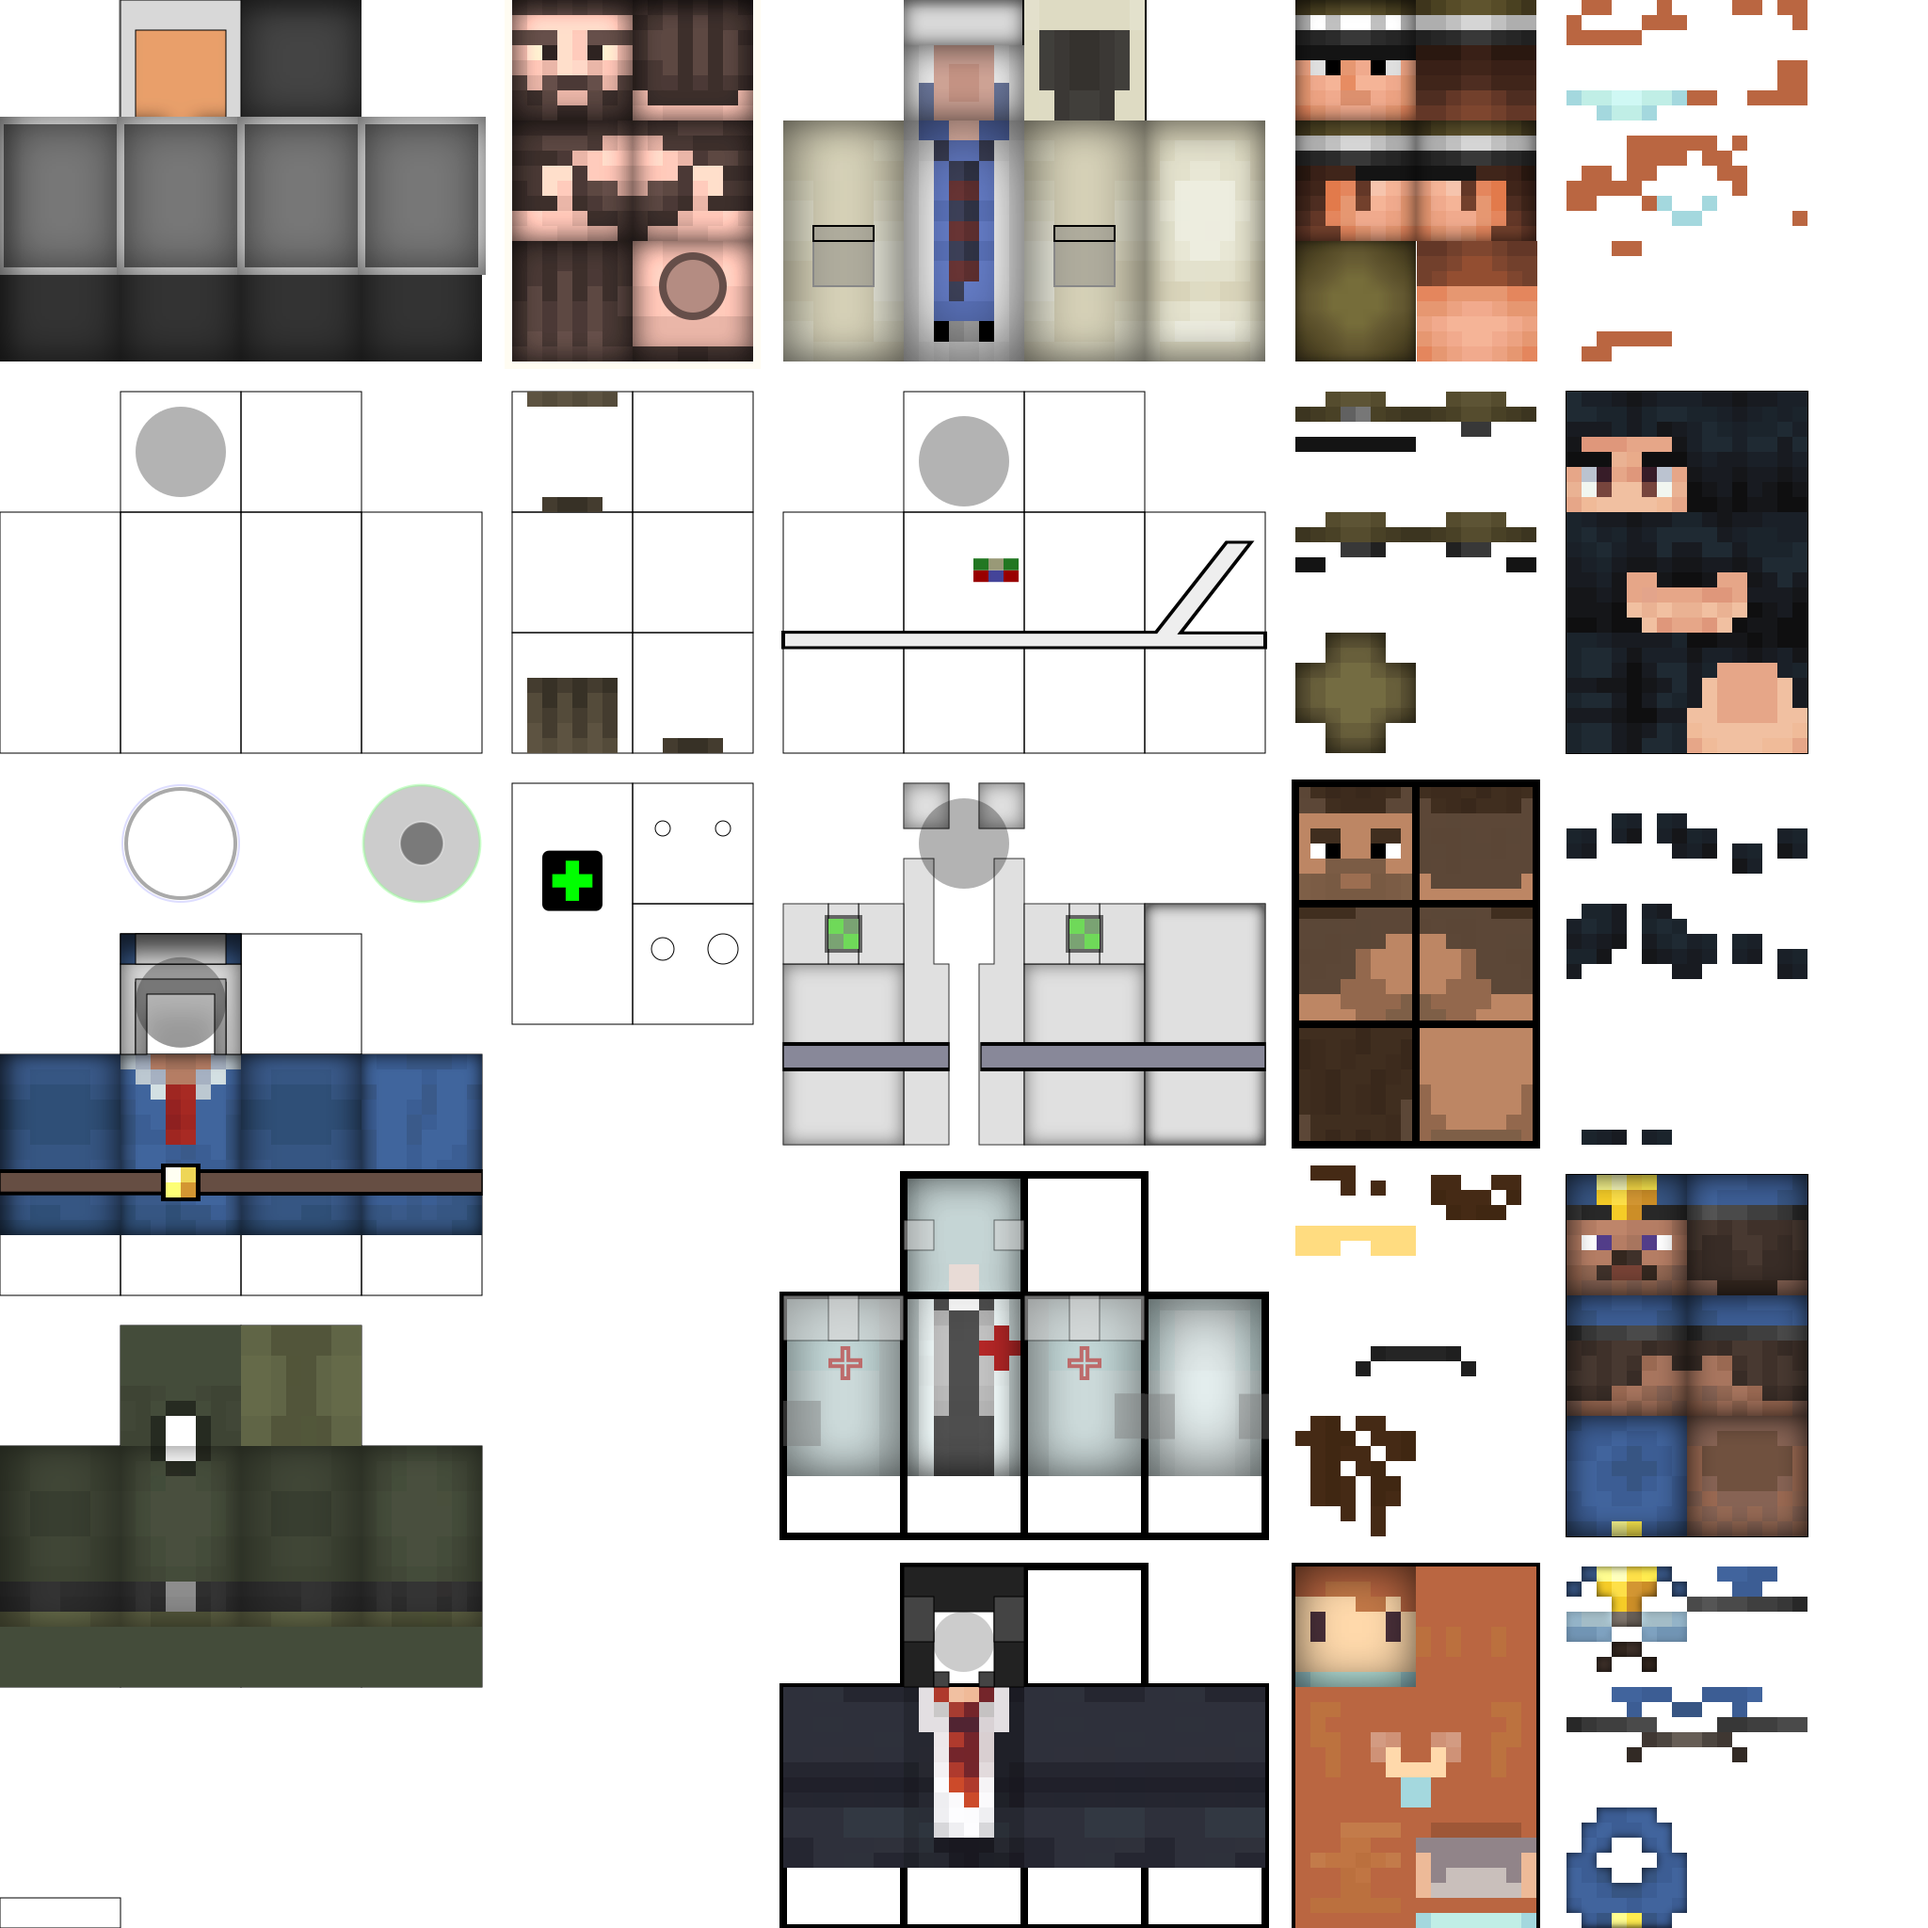
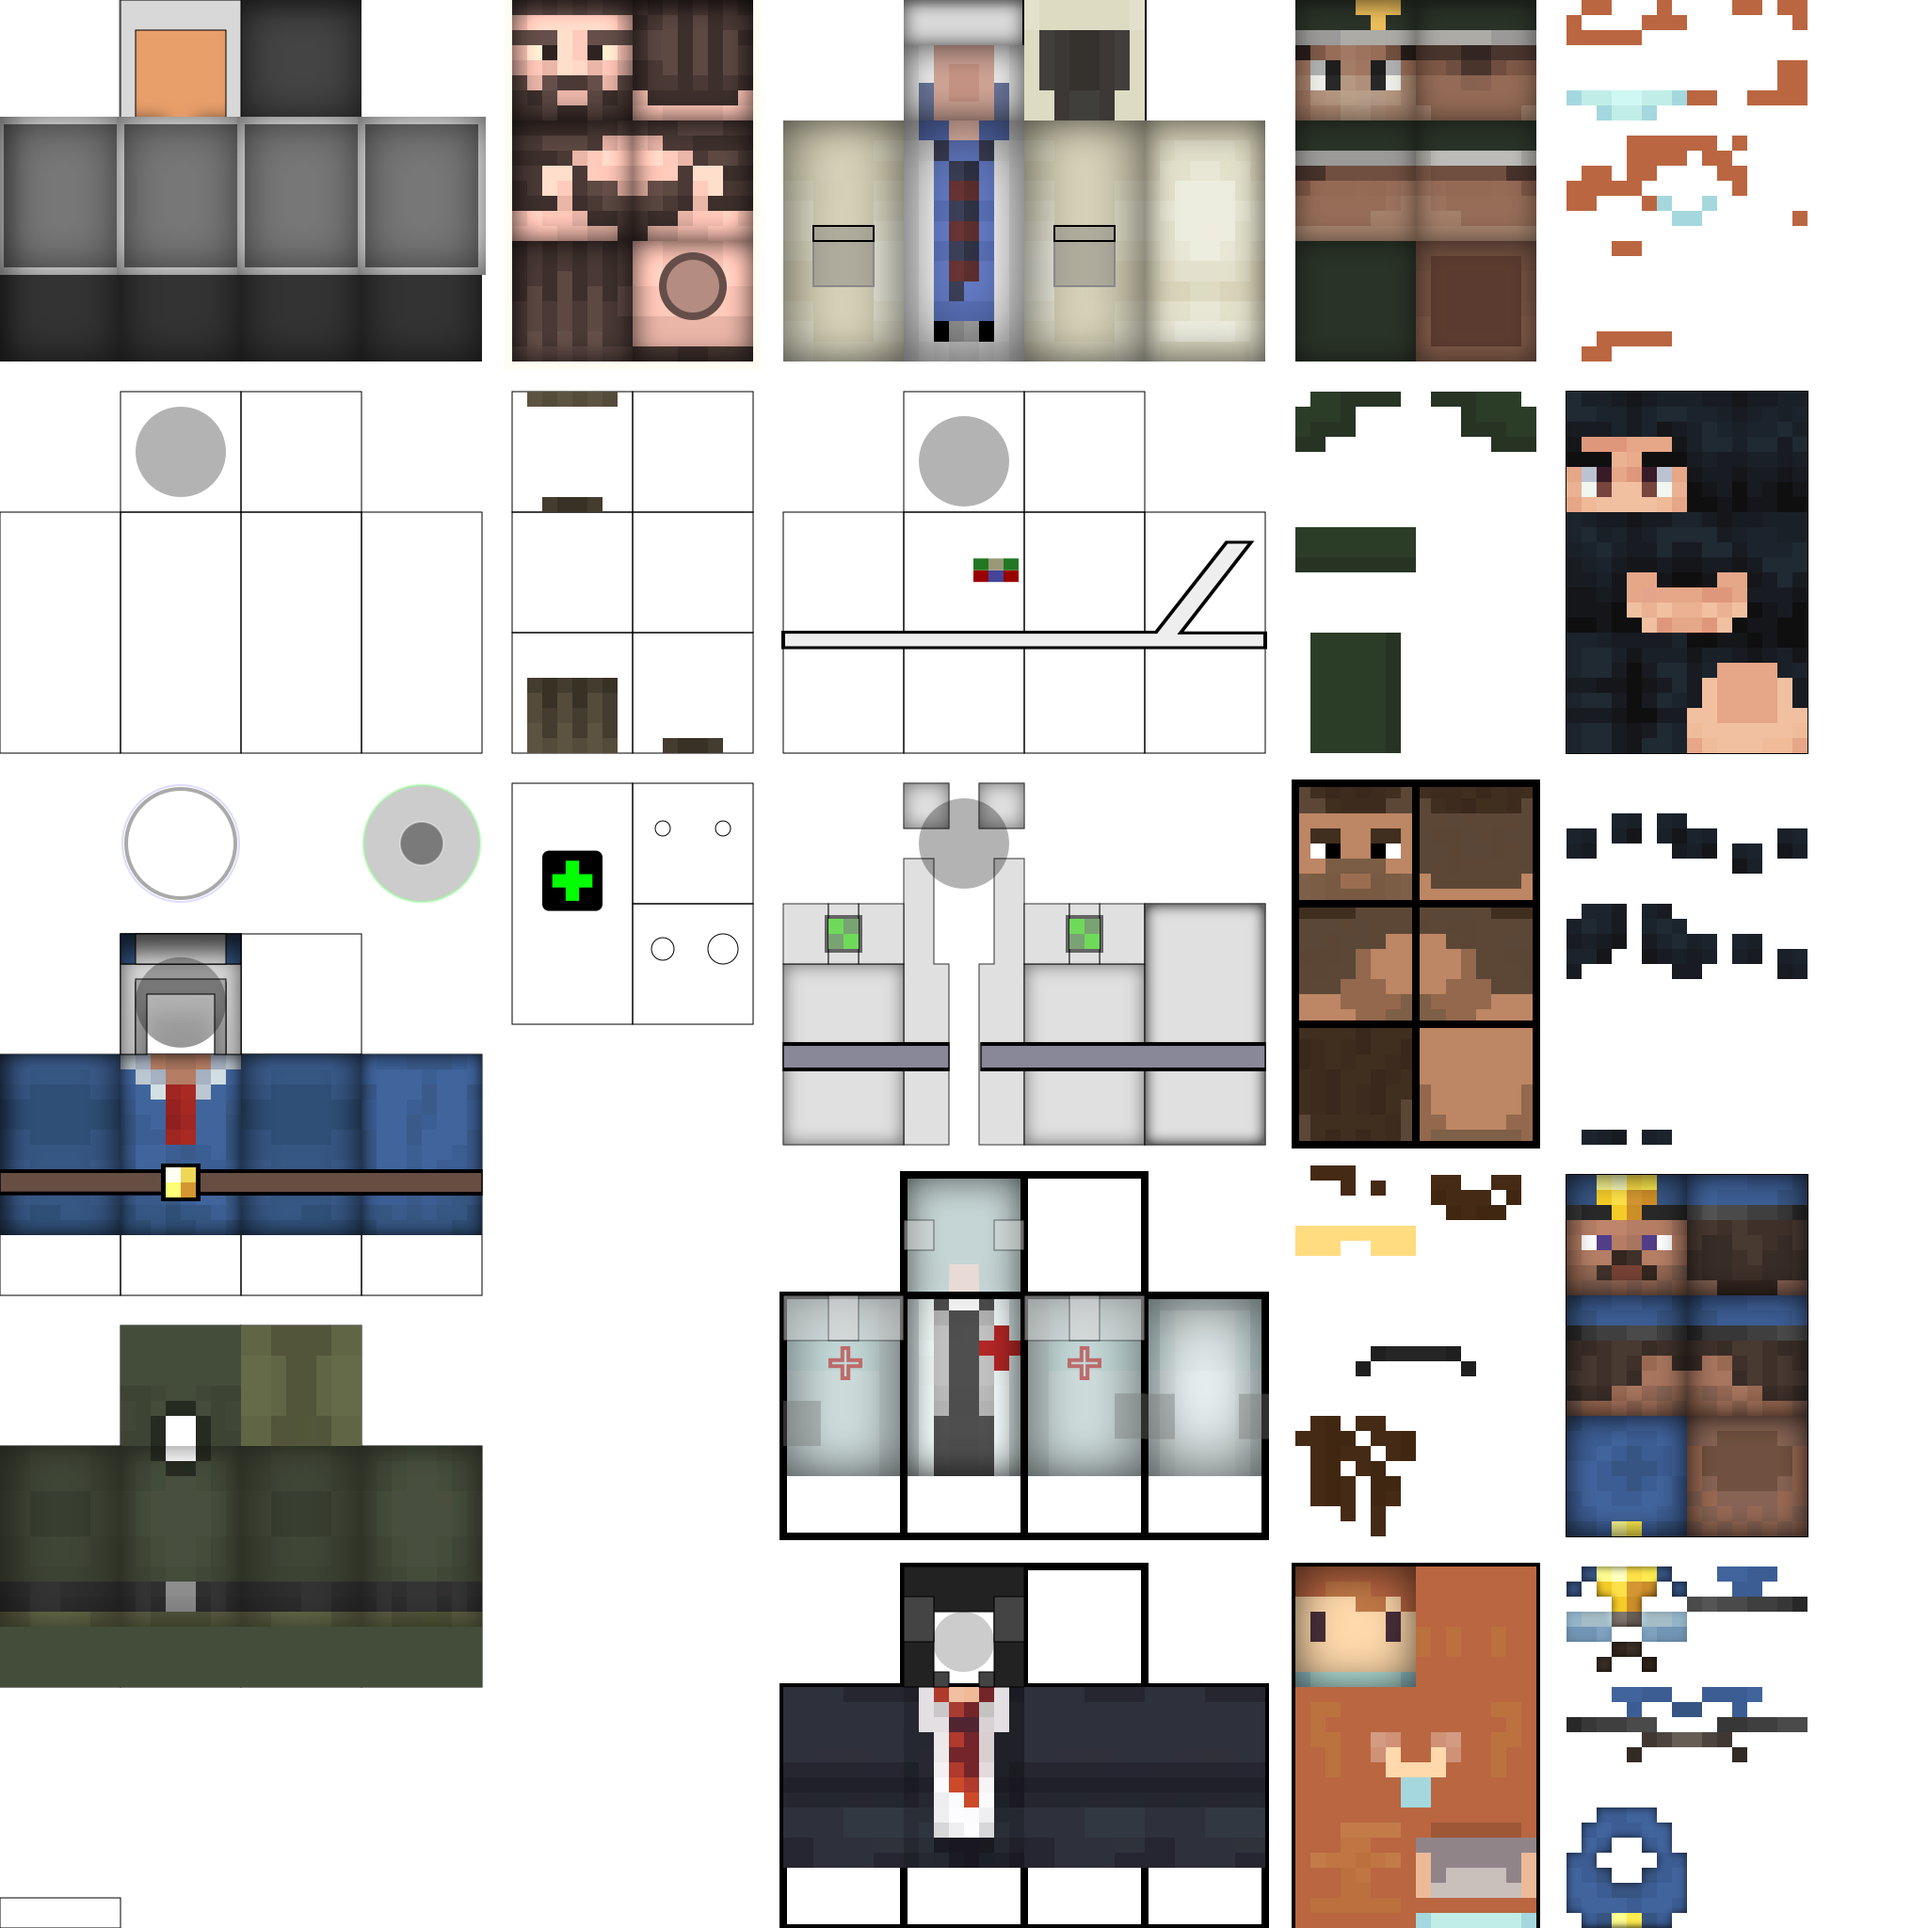
feat: replace soldier-0 head, head-overlay

Changed region(s): [[0.6562, 0.0, 0.8125, 0.4062]]

diff --git a/README.md b/README.md
@@ -300,7 +300,8 @@ We'll try to re-map publicly available Minecraft Skins.
 
 - https://namemc.com/minecraft-skins/tag/soldier
   - 🚧 https://namemc.com/skin/45461862ef51524e
-  - 🚧 https://namemc.com/skin/e5aebae082bea6ec
+  - 🚧 https://namemc.com/skin/e5aebae082bea6ec-
+  - 🚧 https://namemc.com/skin/5556dc93d001adea
 - https://namemc.com/minecraft-skins/tag/scientist
   - 🚧 https://namemc.com/skin/7161dce64d6b12be
   - 🚧 https://namemc.com/skin/72474583457b91c0

diff --git a/docs/TODO.md b/docs/TODO.md
@@ -200,6 +200,10 @@
 - ✅ avoid Tabs reload on edit service/const
   - ✅ fix Viewer, ViewerControls
 
+- ✅ replace soldier-0 head, head-overlay
+  - https://namemc.com/skin/5556dc93d001adea
+- replace police-0 head, head-overlay
+
 - 🚧 look towards neighbour should be optional
   - could also improve it
 
